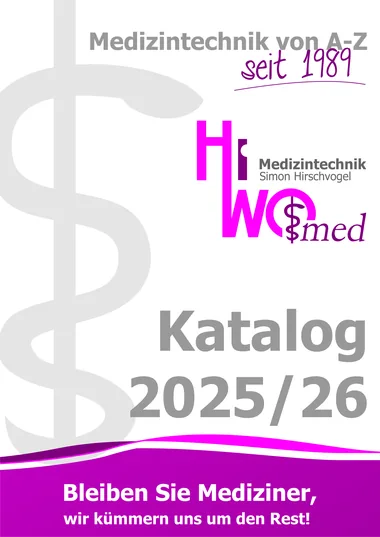
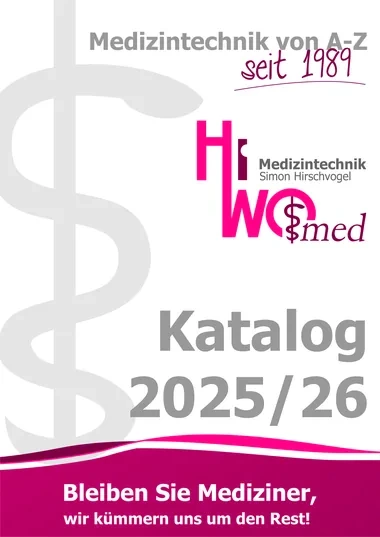
Öffnungszeiten Freitag anpassen, Hero-Hardcut und Katalog-Farbe fixen
- Öffnungszeiten: freitags jetzt bis 15:00 Uhr statt 17:00 Uhr, Montag
  bis Donnerstag unverändert. company.hours in weekdays/friday-Felder
  aufgeteilt und alle Stellen aktualisiert (Hero-Fakten, Footer, Header,
  Kontakt- und Team-Seite, Leistungen-Seite, JSON-LD-Öffnungszeiten).

- Hero-Hintergrundbild: der scale()-Zoom vom letzten Fix ließ das Bild
  optisch über seine Box hinausragen (Transforms zählen nicht ins
  Layout), dadurch lief es unterhalb der Buttons ungefiltert und ohne
  den Verlauf weiter – sichtbar als harter Farbschnitt. overflow-hidden
  auf der Bildebene ergänzt.

- Katalog-Cover-Bild (public/img/katalog-cover-*.webp): Logo-Farbe war
  reines Neon-Pink/Lila (#ff06ff statt Markenmagenta #e5097f). Per
  Hue-Rotation auf die farbigen Pixel korrigiert, Grauwerte/Weiß/Schwarz
  unberührt gelassen – entspricht jetzt exakt dem Logo-Magenta.

Claude-Session: https://claude.ai/code/session_01NZDED2mY2na3YP7scN1u3a

diff --git a/src/app/kontakt/page.tsx b/src/app/kontakt/page.tsx
@@ -25,11 +25,11 @@ export default function KontaktPage() {
       <PageHeader
         label="Kontakt"
         title={<>Ein Anruf reicht.</>}
-        lead="Zwischen 8 und 17 Uhr geht bei uns jemand ans Telefon, der direkt weiterhelfen kann – ohne Auswahlmenü und ohne Rückrufversprechen."
+        lead="Montag bis Donnerstag zwischen 8 und 17 Uhr, freitags bis 15 Uhr geht bei uns jemand ans Telefon, der direkt weiterhelfen kann – ohne Auswahlmenü und ohne Rückrufversprechen."
         meta={[
           { k: "Telefon", v: company.phone.display },
           { k: "E-Mail", v: company.email.general },
-          { k: "Erreichbar", v: `${company.hours.days}, ${company.hours.time}` },
+          { k: "Erreichbar", v: company.hours.compact },
         ]}
       />
 
@@ -88,9 +88,13 @@ export default function KontaktPage() {
                     Zeiten
                   </dt>
                   <dd className="text-[1.0625rem] text-ink">
-                    {company.hours.days}
+                    {company.hours.weekdays}
                     <span className="block text-[0.9375rem] text-muted">
-                      {company.hours.time} – {company.hours.note}
+                      {company.hours.weekdaysTime}
+                    </span>
+                    <span className="mt-2 block">{company.hours.friday}</span>
+                    <span className="block text-[0.9375rem] text-muted">
+                      {company.hours.fridayTime} – {company.hours.note}
                     </span>
                   </dd>
                 </div>

diff --git a/src/components/sections/Hero.tsx b/src/components/sections/Hero.tsx
@@ -6,7 +6,7 @@ import { company, yearsInBusiness } from "@/data/company";
 /** Drei harte Fakten direkt unter dem Einstieg – ohne Karten, nur Haarlinien. */
 const heroFacts = [
   { k: "Gegründet", v: `${company.foundedYear} · familiengeführt in zweiter Generation` },
-  { k: "Erreichbar", v: `${company.hours.days}, ${company.hours.time}` },
+  { k: "Erreichbar", v: company.hours.compact },
   { k: "Lager", v: "1.500 m² · über 6.000 Artikel sofort verfügbar" },
 ];
 
@@ -28,8 +28,13 @@ export function Hero() {
   return (
     <section className="overflow-hidden pb-[clamp(3.5rem,2rem+4vw,6rem)]">
       <div className="relative pt-[clamp(2.25rem,1.5rem+3vw,6rem)]">
-        {/* Hintergrundebenen – rein dekorativ, daher aria-hidden und ohne Alt-Text. */}
-        <div className="absolute inset-0 -z-10" aria-hidden="true">
+        {/* Hintergrundebenen – rein dekorativ, daher aria-hidden und ohne Alt-Text.
+            overflow-hidden ist hier nötig: Der zusätzliche scale()-Zoom auf dem
+            Bild lässt es sonst optisch über diese Box hinausragen (Transforms
+            werden nicht ins Layout gerechnet) – ungefiltert und ohne den
+            Verlauf darunter, das sah wie ein harter Schnitt unter den Buttons
+            aus. */}
+        <div className="absolute inset-0 -z-10 overflow-hidden" aria-hidden="true">
           <img
             src="/img/himmel-schild-1280.webp"
             srcSet="/img/himmel-schild-1280.webp 1280w, /img/himmel-schild-960.webp 960w, /img/himmel-schild-640.webp 640w"

diff --git a/src/app/leistungen/page.tsx b/src/app/leistungen/page.tsx
@@ -225,9 +225,7 @@ export default function LeistungenPage() {
                 lead="Zwischen dem Anruf in Uffing und dem Termin in Ihrer Praxis liegt kein Dienstleisterwechsel. Beide Seiten arbeiten mit denselben Daten und kennen dieselben Kunden."
               />
               <ul className="list-tick mt-8 text-muted">
-                <li>
-                  Montag bis Freitag durchgehend von {company.hours.time} persönlich erreichbar
-                </li>
+                <li>{company.hours.compact} persönlich erreichbar</li>
                 <li>Feste Gebiete im Außendienst – dieselbe Ansprechperson über Jahre</li>
                 <li>Individuelle Versorgungslösungen statt Standardpakete</li>
                 <li>Jährliche Kundenbefragung zu Umfang und Qualität unserer Leistungen</li>

diff --git a/src/components/layout/SiteFooter.tsx b/src/components/layout/SiteFooter.tsx
@@ -81,9 +81,13 @@ export function SiteFooter() {
           <div className="lg:col-span-4">
             <h2 className="t-eyebrow text-night-ink">Erreichbarkeit</h2>
             <p className="mt-5 leading-relaxed">
-              <span className="font-semibold text-night-ink">{company.hours.days}</span>
+              <span className="font-semibold text-night-ink">{company.hours.weekdays}</span>
               <br />
-              {company.hours.time} — {company.hours.note}.
+              {company.hours.weekdaysTime}
+              <br />
+              <span className="font-semibold text-night-ink">{company.hours.friday}</span>
+              <br />
+              {company.hours.fridayTime} — {company.hours.note}.
             </p>
 
             <a

diff --git a/src/app/layout.tsx b/src/app/layout.tsx
@@ -80,12 +80,20 @@ const organizationSchema = {
     addressLocality: company.address.city,
     addressCountry: "DE",
   },
-  openingHoursSpecification: {
-    "@type": "OpeningHoursSpecification",
-    dayOfWeek: ["Monday", "Tuesday", "Wednesday", "Thursday", "Friday"],
-    opens: "08:00",
-    closes: "17:00",
-  },
+  openingHoursSpecification: [
+    {
+      "@type": "OpeningHoursSpecification",
+      dayOfWeek: ["Monday", "Tuesday", "Wednesday", "Thursday"],
+      opens: "08:00",
+      closes: "17:00",
+    },
+    {
+      "@type": "OpeningHoursSpecification",
+      dayOfWeek: ["Friday"],
+      opens: "08:00",
+      closes: "15:00",
+    },
+  ],
   areaServed: [
     "München",
     "Oberbayern",

diff --git a/src/data/company.ts b/src/data/company.ts
@@ -28,9 +28,13 @@ export const company = {
     training: "schulungen@hiwomed.de",
   },
   hours: {
-    days: "Montag bis Freitag",
-    time: "08:00 – 17:00 Uhr",
+    weekdays: "Montag bis Donnerstag",
+    weekdaysTime: "08:00 – 17:00 Uhr",
+    friday: "Freitag",
+    fridayTime: "08:00 – 15:00 Uhr",
     note: "durchgehend persönlich erreichbar",
+    /** Kompakte Fassung für Fakten-Zeilen und Fließtext. */
+    compact: "Montag bis Donnerstag 08:00 – 17:00 Uhr, Freitag bis 15:00 Uhr",
   },
   register: {
     court: "Amtsgericht München",

diff --git a/src/app/team/page.tsx b/src/app/team/page.tsx
@@ -68,7 +68,7 @@ export default function TeamPage() {
         meta={[
           { k: "Standort", v: `Alle an einem Ort: ${company.address.city}` },
           { k: "Längste Zugehörigkeit", v: `seit ${earliestYear}` },
-          { k: "Erreichbarkeit", v: `${company.hours.days}, ${company.hours.time}` },
+          { k: "Erreichbarkeit", v: company.hours.compact },
         ]}
       />
 

diff --git a/src/components/layout/SiteHeader.tsx b/src/components/layout/SiteHeader.tsx
@@ -206,7 +206,7 @@ export function SiteHeader() {
               {company.phone.display}
             </a>
             <p className="text-[0.8125rem] text-muted">
-              {company.hours.days}, {company.hours.time} – {company.hours.note}.
+              {company.hours.compact} – {company.hours.note}.
             </p>
           </div>
         </nav>

diff --git a/src/components/sections/ContactCta.tsx b/src/components/sections/ContactCta.tsx
@@ -12,7 +12,7 @@ const channels = [
     label: "Anrufen",
     value: company.phone.display,
     href: company.phone.href,
-    note: `${company.hours.days}, ${company.hours.time}`,
+    note: company.hours.compact,
   },
   {
     label: "Schreiben",
